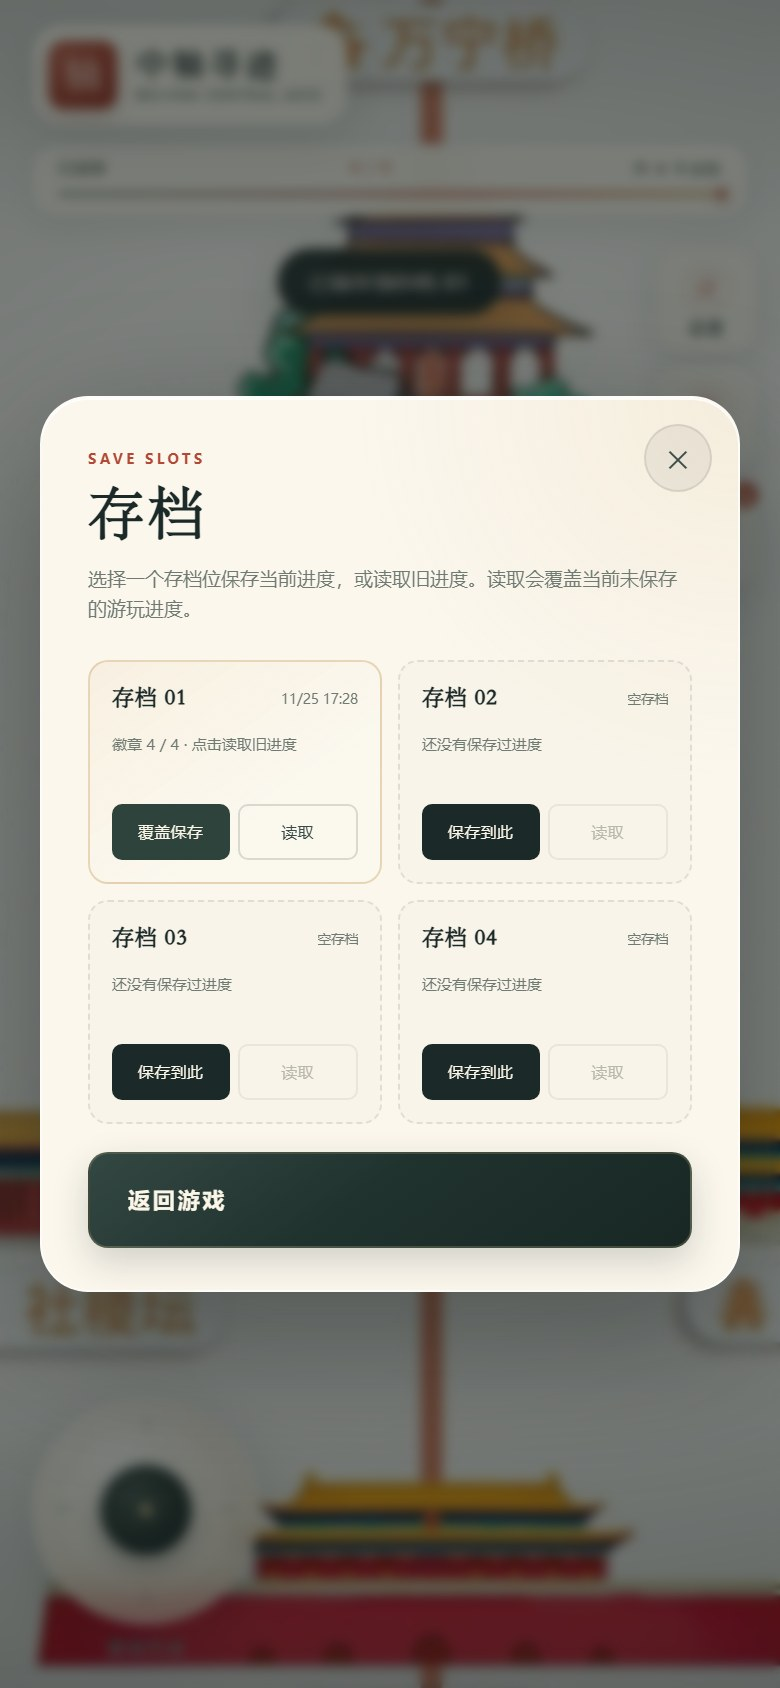
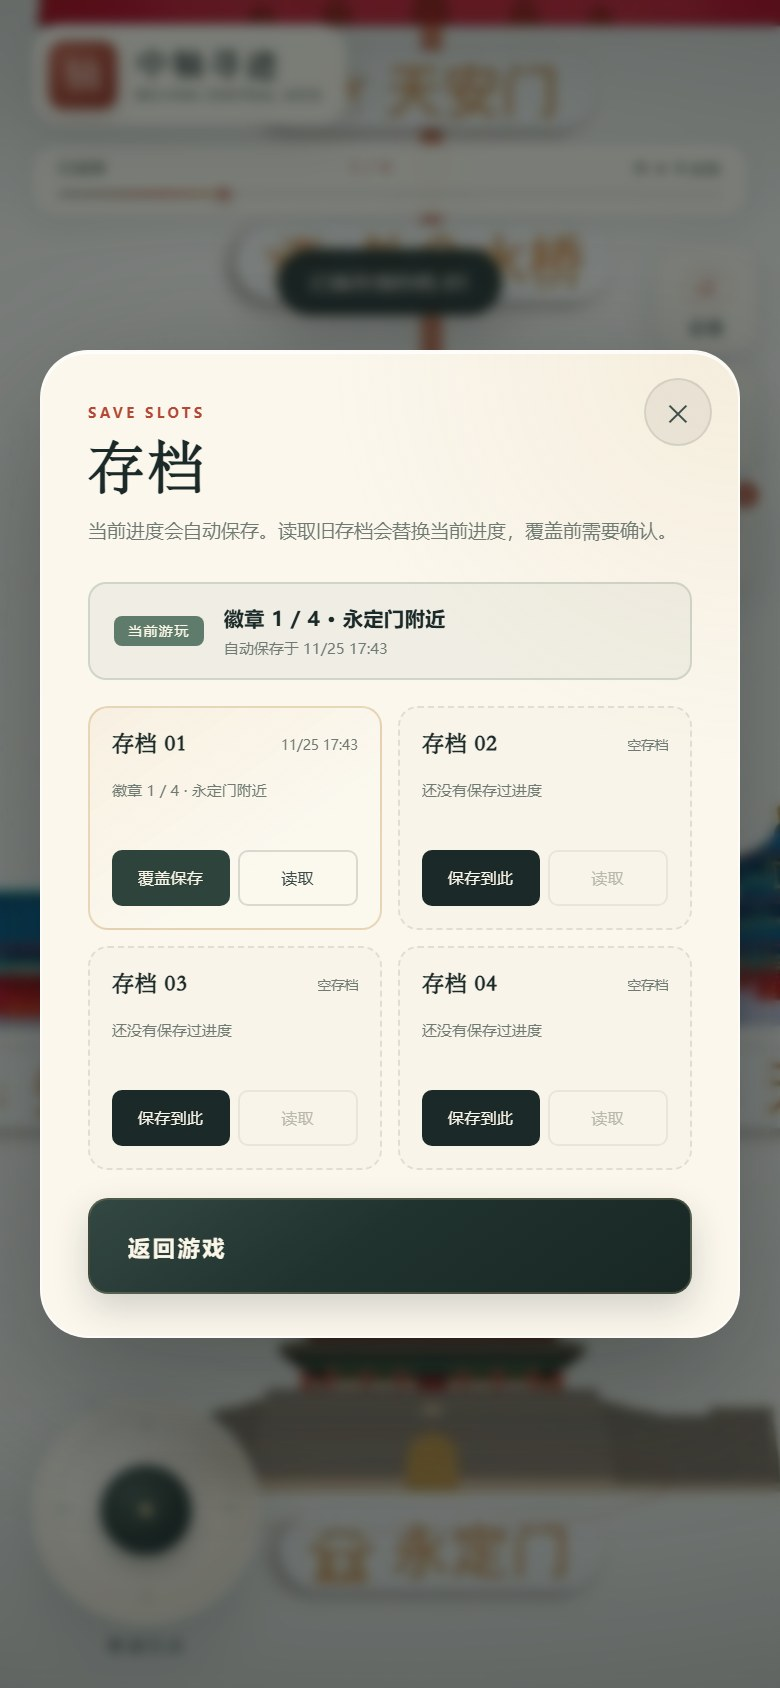
release: v1.3.1 · 中轴漫行可玩性验证 Demo

diff --git a/js/ui/ui.js b/js/ui/ui.js
@@ -37,6 +37,8 @@ export class UI {
       saveClose: byId('saveClose'),
       saveDone: byId('saveDone'),
       saveGrid: byId('saveGrid'),
+      saveCurrentMeta: byId('saveCurrentMeta'),
+      saveCurrentTime: byId('saveCurrentTime'),
 
       joystick: byId('joystick'),
       toast: byId('toast'),
@@ -497,17 +499,29 @@ export class UI {
     this.restoreFocus();
   }
 
-  openSaveSlots(slots) {
+  openSaveSlots(slots, current) {
     if (this.saveOpen) return;
     const { el } = this;
     this.saveOpen = true;
     this.savedFocus = document.activeElement;
-    this.renderSaveSlots(slots);
+    this.currentSave = current;
+    this.renderSaveSlots(slots, current);
     this.openSystemLayer(el.saveLayer, el.saveGrid.querySelector('.slot-save') || el.saveDone);
   }
 
-  renderSaveSlots(slots) {
+  renderSaveSlots(slots, current = this.currentSave) {
     const { el } = this;
+    const active = document.activeElement;
+    const activeSlot = active?.dataset?.slot;
+    const activeAction = active?.dataset?.action;
+    const currentBadges = current?.badges?.size ?? 0;
+    const currentTotal = this.totalBadges;
+    const currentLocation = this.locationLabel(current?.player);
+    el.saveCurrentMeta.textContent = `徽章 ${currentBadges} / ${currentTotal} · ${currentLocation}`;
+    el.saveCurrentTime.textContent = current?.savedAt
+      ? `自动保存于 ${formatSavedAt(current.savedAt)}`
+      : '尚未自动保存';
+
     el.saveGrid.replaceChildren();
 
     slots.forEach((slot, index) => {
@@ -525,8 +539,12 @@ export class UI {
 
       const meta = document.createElement('p');
       meta.className = 'save-slot-meta';
-      const count = occupied ? slot.badges.filter((id) => ATLAS_BADGES.some((badge) => badge.id === id)).length : 0;
-      meta.textContent = occupied ? `徽章 ${count} / ${this.totalBadges} · 点击读取旧进度` : '还没有保存过进度';
+      const count = occupied
+        ? slot.badges.filter((id) => ATLAS_BADGES.some((badge) => badge.id === id)).length
+        : 0;
+      meta.textContent = occupied
+        ? `徽章 ${count} / ${this.totalBadges} · ${this.locationLabel(slot.player)}`
+        : '还没有保存过进度';
 
       const actions = document.createElement('div');
       actions.className = 'save-slot-actions';
@@ -550,6 +568,21 @@ export class UI {
       node.append(head, meta, actions);
       el.saveGrid.append(node);
     });
+
+    if (activeSlot !== undefined && activeAction) {
+      el.saveGrid
+        .querySelector(`[data-slot="${activeSlot}"][data-action="${activeAction}"]`)
+        ?.focus({ preventScroll: true });
+    }
+  }
+
+  locationLabel(player) {
+    if (!player || !Number.isFinite(player.y)) return '位置未知';
+    if (player.y >= 2150) return '永定门附近';
+    if (player.y >= 2025) return player.x >= 580 ? '天坛附近' : '永定门附近';
+    if (player.y >= 1800) return '正阳门附近';
+    if (player.y >= 900) return '故宫附近';
+    return '中轴途中';
   }
 
   closeSaveSlots() {

diff --git a/js/main.js b/js/main.js
@@ -261,7 +261,15 @@ function openSaveSlots() {
   input.setEnabled(false);
   player.stop();
   ui.hideBubble();
-  ui.openSaveSlots(loadSlots());
+  ui.openSaveSlots(loadSlots(), currentProgress());
+}
+
+function currentProgress() {
+  return {
+    badges: state.badges,
+    player,
+    savedAt: state.savedAt,
+  };
 }
 
 function closeSaveSlots() {
@@ -274,20 +282,30 @@ function saveToSlot(index) {
   const slots = loadSlots();
   if (slots[index] && !window.confirm(`存档 ${index + 1} 已有进度，确定覆盖吗？`)) return;
 
-  const updated = saveSlot(index, {
+  const result = saveSlot(index, {
     badges: state.badges,
     player,
     settings: state.settings,
   });
-  ui.renderSaveSlots(updated);
+  if (!result.ok) {
+    ui.toast('存档失败，请检查浏览器存储空间', 2600);
+    return;
+  }
+
   saveGame(false);
+  ui.renderSaveSlots(result.slots, currentProgress());
   ui.toast(`已保存到存档 ${String(index + 1).padStart(2, '0')}`, 2000);
 }
 
 function loadFromSlot(index) {
   const slot = loadSlots()[index];
   if (!slot) return;
-  if (!window.confirm('读取存档会覆盖当前未保存的游玩进度，确定继续吗？')) return;
+
+  const slotCount = slot.badges.filter((id) => ATLAS_BADGES.some((badge) => badge.id === id)).length;
+  const currentCount = state.badges.size;
+  if (!window.confirm(`读取存档 ${index + 1}（${slotCount} / ${POIS.length}）会替换当前 ${currentCount} / ${POIS.length} 的进度，确定继续吗？`)) {
+    return;
+  }
 
   applySnapshot(slot);
   ui.closeSaveSlots();

diff --git a/index.html b/index.html
@@ -206,7 +206,7 @@
         <p class="settings-meta">最近自动存档：<span id="lastSaved">尚未存档</span></p>
         <button id="settingsReset" class="secondary-btn" type="button">回到起点</button>
         <button id="settingsDone" class="primary-btn" type="button">返回游戏</button>
-        <p class="settings-version">中轴寻迹 · v1.3.0</p>
+        <p class="settings-version">中轴寻迹 · v1.3.1</p>
       </article>
     </div>
 
@@ -216,7 +216,12 @@
         <button id="saveClose" class="system-close" type="button" aria-label="关闭存档">×</button>
         <p class="system-kicker">SAVE SLOTS</p>
         <h2 id="saveTitle">存档</h2>
-        <p class="save-intro">选择一个存档位保存当前进度，或读取旧进度。读取会覆盖当前未保存的游玩进度。</p>
+        <p class="save-intro">当前进度会自动保存。读取旧存档会替换当前进度，覆盖前需要确认。</p>
+        <div id="saveCurrent" class="save-current">
+          <span class="save-current-label">当前游玩</span>
+          <strong id="saveCurrentMeta">0 / 4 · 永定门附近</strong>
+          <small id="saveCurrentTime">尚未自动保存</small>
+        </div>
         <div id="saveGrid" class="save-grid"></div>
         <button id="saveDone" class="primary-btn" type="button">返回游戏</button>
       </article>

diff --git a/css/style.css b/css/style.css
@@ -2485,3 +2485,50 @@ html.reduce-motion *::after {
     font-size: 7px;
   }
 }
+
+.save-current {
+  display: grid;
+  grid-template-columns: auto 1fr;
+  align-items: baseline;
+  gap: 3px 10px;
+  margin: 0 0 13px;
+  padding: 10px 12px;
+  border: 1px solid rgba(95, 123, 107, 0.22);
+  border-radius: 9px;
+  background: rgba(95, 123, 107, 0.07);
+}
+
+.save-current-label {
+  grid-row: span 2;
+  align-self: center;
+  padding: 3px 7px;
+  border-radius: 4px;
+  color: #fbf6e8;
+  background: var(--jade);
+  font-size: 7px;
+  letter-spacing: 0.1em;
+  white-space: nowrap;
+}
+
+.save-current strong {
+  color: var(--ink);
+  font-size: 10px;
+  font-weight: 600;
+  letter-spacing: 0.03em;
+}
+
+.save-current small {
+  color: var(--muted);
+  font-size: 7.5px;
+}
+
+@media (max-width: 359px) {
+  .save-current {
+    padding: 8px 9px;
+    gap: 2px 7px;
+  }
+
+  .save-current strong {
+    font-size: 9px;
+  }
+}

diff --git a/js/core/progress.js b/js/core/progress.js
@@ -47,7 +47,7 @@ export function loadSlots() {
 
 export function saveSlot(index, { badges, player, settings }) {
   if (!Number.isInteger(index) || index < 0 || index >= SLOT_COUNT) {
-    return loadSlots();
+    return { slots: loadSlots(), ok: false };
   }
 
   const slots = loadSlots();
@@ -56,10 +56,10 @@ export function saveSlot(index, { badges, player, settings }) {
 
   try {
     localStorage.setItem(SLOTS_KEY, JSON.stringify(slots));
+    return { slots, ok: true };
   } catch {
-    return loadSlots();
+    return { slots: loadSlots(), ok: false };
   }
-  return slots;
 }
 
 export function clearProgress() {

diff --git a/README.md b/README.md
@@ -56,7 +56,7 @@
 
 ---
 
-## 3. 玩法（v1.3.0 原型）
+## 3. 玩法（v1.3.1 原型）
 
 - **四方位行走**：拖动左下角摇杆；桌面端也支持 `WASD` / 方向键。
 - **靠近建筑**：人物从永定门前出发，走近建筑后上方出现“轻触了解”气泡。
@@ -64,7 +64,7 @@
 - **点亮徽章**：答对后获得对应建筑徽章，自动写入图鉴并保存。
 - **内容进度**：顶部进度条按“已完成闭环数 / 4”增长，不是人物在地图上的位置。
 - **右侧系统列**：设置 / 存档 / 图鉴，三个按钮一列。
-- **存档**：点击后弹出 4 个存档位，可保存、覆盖、读取；读取会确认覆盖当前未保存进度。
+- **存档**：点击后弹出 4 个存档位，可保存、覆盖、读取；读取会确认替换当前进度。当前进度本身会自动保存，刷新后可“继续寻迹”。
 - **图鉴**：4 枚可玩徽章：永定门、天坛、正阳门、故宫。
 - **设置**：减少动效、大字模式、回到起点。
 
@@ -205,12 +205,27 @@
 
 ### 存档与设置
 
-- 自动会话存档：`js/core/progress.js` 的 `zhongzhou-xunji-save-v2`，用于刷新后“继续寻迹”。
-- 手动存档：4 个存档位，键名 `zhongzhou-xunji-slots-v1`。
-- 保存内容：徽章、人物坐标、减少动效/大字模式、存档时间。
-- 存档按钮：右侧系统列“存档”，点击后弹出 4 个存档位；可保存、覆盖、读取。
-- 读取存档会确认覆盖当前未保存进度。
-- 设置：减少动效、大字模式、回到起点。
+**两层状态，职责分开：**
+
+1. **当前游玩进度（自动会话存档）**
+   - 键名：`zhongzhou-xunji-save-v2`
+   - 内容：徽章集合、人物坐标、设置、时间。
+   - 触发：答对题目、切换页面隐藏、修改设置、保存/读取存档后。
+   - 作用：刷新页面后“继续寻迹”回到最近状态。
+
+2. **手动存档位（4 个）**
+   - 键名：`zhongzhou-xunji-slots-v1`
+   - 每个位是一份独立快照：徽章、人物坐标、设置、保存时间。
+   - 保存/覆盖/读取都只由用户点击触发；读取前会确认，并同时显示旧存档与当前进度的徽章数。
+   - 读取会替换当前游玩进度，并同步更新顶部进度条与图鉴。
+
+**设计约束：**
+
+- 进度条只由徽章集合推导，不单独存“百分比”，避免和存档内容不一致。
+- 自动存档不会修改 4 个手动存档位；手动存档也不会凭空增加徽章。
+- 存档位显示“徽章数 + 位置”，避免两个同为 2/4 的存档无法区分。
+- 写入失败时提示“存档失败”，不会误报成功。
+- 读取前确认是最后一道保护；当前版本不提供“读取前快照”的撤销按钮。
 
 ### 人物、镜头、速度
 
@@ -288,7 +303,7 @@ entities.sort((a, b) => a.y - b.y);
 - **UI 换肤**：颜色、圆角、字体在 `:root` 和组件样式中集中管理；可替换为更现代的国潮/极简风。
 - **小地图**：`Camera.worldToScreen` 与地图尺寸可直接复用。
 - **音效与语音**：在 `openPoi` / 移动状态切换处挂音频；注意移动端需要用户手势后播放。
-- **存档**：已使用 localStorage 保存徽章、位置和设置；后续可扩展多存档槽或云端同步。
+- **存档**：已使用 localStorage 保存当前会话，并提供 4 个手动存档位；后续可扩展多存档槽或云端同步。
 - **碰撞**：在 `Player.update` 中加矩形/圆形碰撞即可；建议只对建筑主体加碰撞，不要把地图标签也挡住。
 - **微信小程序迁移**：Canvas 2D API、POI 数据结构、镜头/人物逻辑可以复用；需要把 DOM UI 改为 WXML/WXSS，把 `pointerdown` 改为 `bindtouchstart`，并处理小程序域名与 `web-view` 限制。当前 H5 版本更适合“扫码即玩”的课程验收。
 
@@ -358,7 +373,8 @@ GitHub → Commits / Releases 找到上一个版本，使用 **Revert** 或把 t
 ## 12. 验收记录
 
 - Chrome Headless + Puppeteer，移动端视口 `390 × 844`：四个点位均可走近出现气泡、打开资料卡、答错重试、答对获得徽章；顶部闭环进度 `0 / 4 → 4 / 4`；图鉴四枚徽章全部点亮。
-- 存档位：四个空位可保存；保存后显示时间与 `徽章 4 / 4`；可覆盖保存；读取前弹出确认，读取后恢复徽章与位置；刷新后“继续寻迹”保留自动会话。
+- 存档位：四个空位可保存；保存后显示时间、徽章数与位置；可覆盖保存；读取前弹出确认并显示“旧存档 1/4 → 当前 4/4”，读取后恢复徽章与位置；刷新后“继续寻迹”保留自动会话。
+- 存档失败（模拟 localStorage 写入异常）：提示“存档失败”，对应存档位保持空位，不会误报成功。
 - 小屏 `320 × 568`：资料卡内部滚动，答题区、四宫格存档、图鉴不溢出。
 - 桌面 `1280 × 900`：应用以 560px 手机画幅居中显示，系统列、图鉴、存档位正常。
 - 修复了答错后正确选项被禁用的问题，以及触屏 `pointerup` 补发 `click` 导致介绍卡刚打开就被关闭的问题（420ms 防误触窗口）。

diff --git a/CHANGELOG.md b/CHANGELOG.md
@@ -3,6 +3,16 @@
 本项目使用语义化版本：`vMAJOR.MINOR.PATCH`。  
 每次发布在 GitHub 上打 tag / Release，GitHub Pages 会随 `main` 分支自动更新。
 
+## v1.3.1 — 2026-11-25
+
+存档状态梳理与修正。
+
+- 明确区分“当前游玩进度”（自动会话存档）与“手动存档位”，存档面板增加当前进度摘要：徽章数、所在位置、最近自动保存时间。
+- 读取确认改为同时显示“旧存档进度”和“当前进度”，例如“读取 1/4 会替换当前 4/4”。
+- 存档位增加位置标记（永定门 / 天坛 / 正阳门 / 故宫附近），不再只显示徽章数。
+- 写入存档失败时不再误报成功，改为提示检查存储空间。
+- 保存后恢复焦点到同一存档位，键盘操作不会跳到页面顶部。
+
 ## v1.3.0 — 2026-11-25
 
 四点位内容闭环 + 四存档位。
